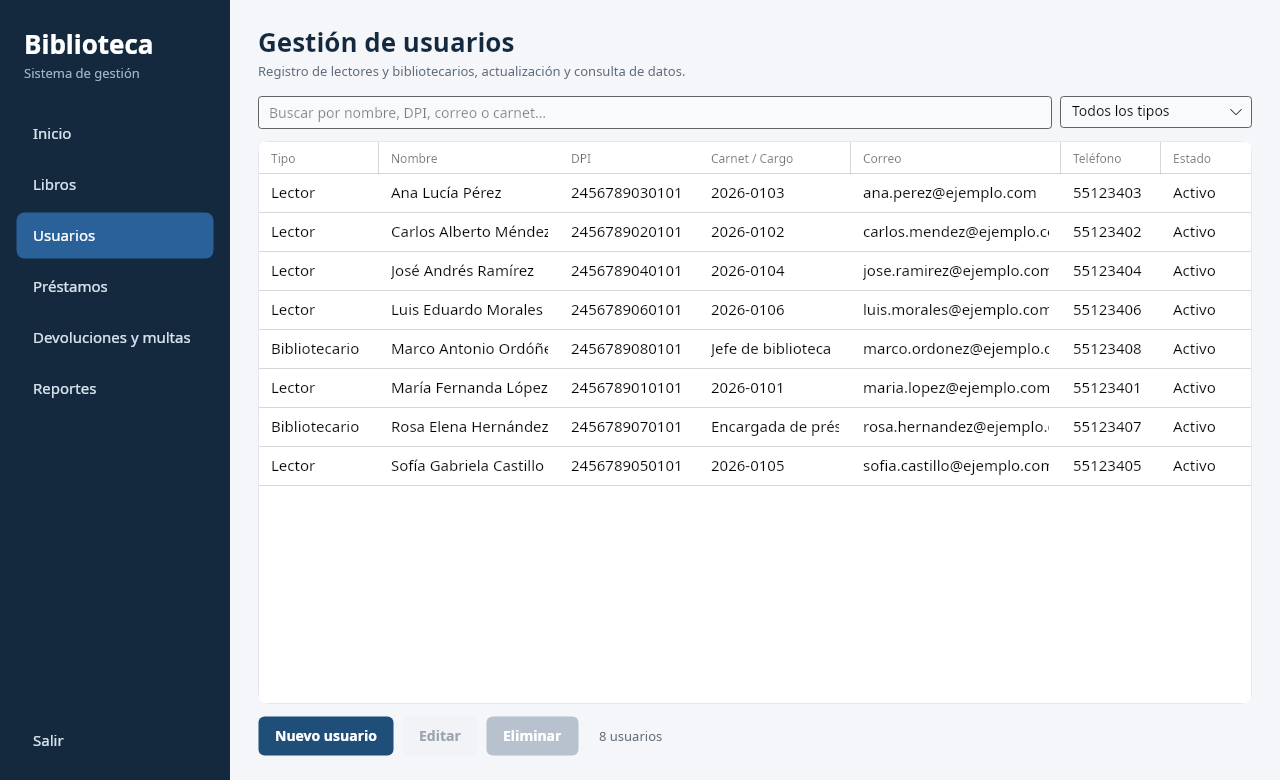
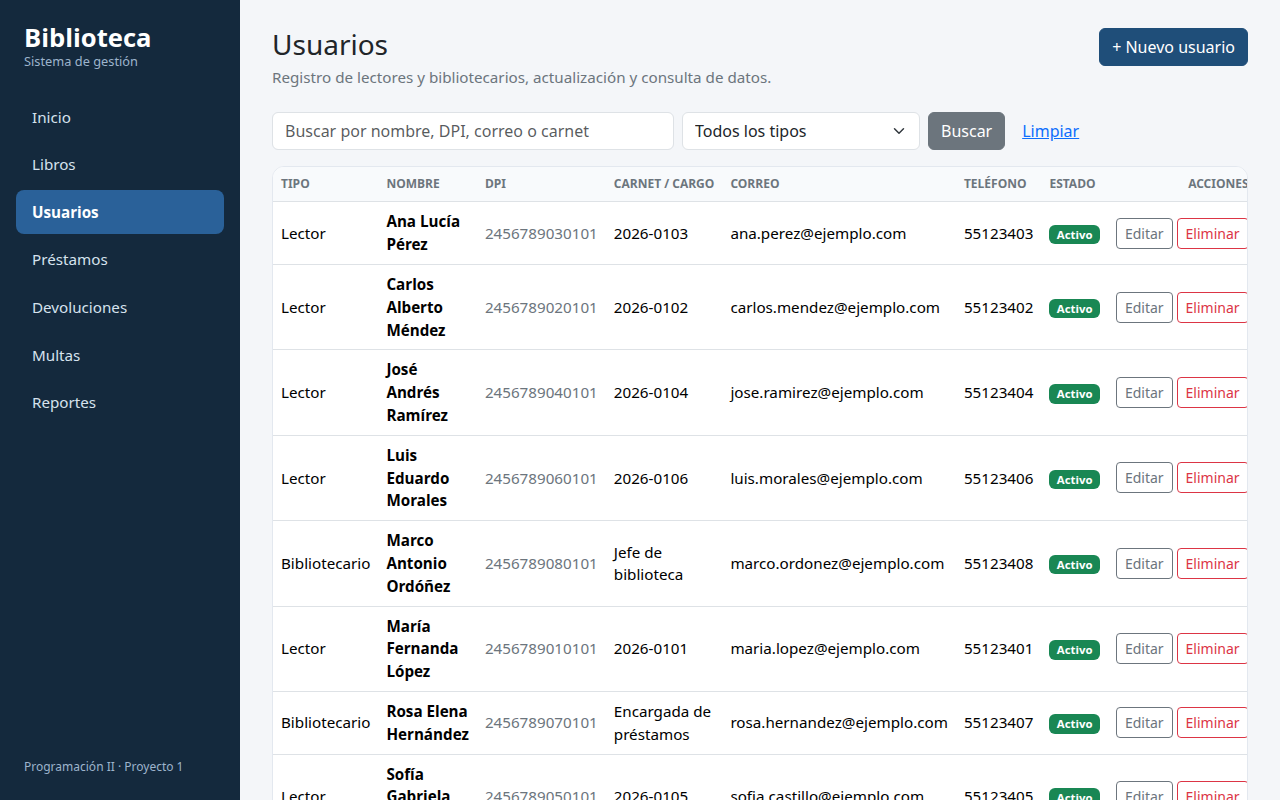
docs: actualiza la interfaz, la trazabilidad y las pruebas con las capturas de la aplicación web

diff --git a/docs/04-clases-diseno-y-trazabilidad.md b/docs/04-clases-diseno-y-trazabilidad.md
@@ -41,7 +41,24 @@ Las clases del código tienen correspondencia directa con el diagrama de clases 
 | `DevolucionService` | Registrar la devolución, liberar el ejemplar y disparar la generación de la multa. |
 | `MultaService` | Calcular y generar multas, registrar pagos, consultar multas y saldos pendientes. |
 | `ReporteService` | Construir los cinco reportes (`ReporteTabular`) y exportarlos a CSV. |
-| `SistemaBiblioteca` | Punto de entrada: crea los repositorios JSON y los servicios; es lo único que la interfaz necesita conocer. |
+| `SistemaBiblioteca` | Punto de entrada: crea los repositorios JSON y los servicios; es lo único que los controladores necesitan conocer. |
+
+## 6.4 Controladores, modelos de vista y vistas (`Biblioteca.Web`)
+
+| Controlador | Acciones | Vistas (`Views/`) | Servicio que usa |
+|---|---|---|---|
+| `HomeController` | `Index` (panel), `Error` | `Home/Index`, `Shared/Error` | Todos (solo lectura) |
+| `LibrosController` | `Index`, `Crear`, `Editar`, `Eliminar` | `Libros/Index`, `Crear`, `Editar`, `_Formulario` | `LibroService` |
+| `UsuariosController` | `Index`, `Crear`, `Editar`, `Eliminar` | `Usuarios/Index`, `Crear`, `Editar`, `_Formulario` | `UsuarioService` |
+| `PrestamosController` | `Index`, `Nuevo`, `Renovar` | `Prestamos/Index`, `Nuevo` | `PrestamoService` |
+| `DevolucionesController` | `Index`, `Registrar` | `Devoluciones/Index` | `DevolucionService`, `MultaService` |
+| `MultasController` | `Index`, `Pagar` | `Multas/Index` | `MultaService` |
+| `ReportesController` | `Index`, `Exportar` | `Reportes/Index` | `ReporteService` |
+
+- Todos heredan de `BaseController` (salvo `Home` y `Reportes`), que traduce `ValidacionException` y `AlmacenamientoException` en mensajes para el usuario.
+- Los **modelos de vista** (`Models/ViewModels`) transportan los datos de los formularios (con validaciones `DataAnnotations`) y de los listados; las entidades del dominio nunca se enlazan directamente a un formulario.
+- Las acciones que modifican datos son `POST` con `[ValidateAntiForgeryToken]`; después de guardar se redirige (patrón Post/Redirect/Get) y el mensaje se entrega con `TempData`.
+- `SistemaBiblioteca` se registra como *singleton* en `Program.cs` y se inyecta por constructor en cada controlador.
 
 ---
 
@@ -56,7 +73,7 @@ Las clases del código tienen correspondencia directa con el diagrama de clases 
 | `prestamos.json` | Historial completo de préstamos. | `Prestamo` |
 | `multas.json` | Multas generadas y su estado de pago. | `Multa` |
 
-Los archivos se guardan en la carpeta `datos/` junto al ejecutable (o en la ruta indicada por la variable de entorno `BIBLIOTECA_DATOS`). El repositorio incluye los **datos de prueba** en `datos/` y el proyecto los copia automáticamente a la carpeta de salida.
+Los archivos se guardan en la carpeta `Data/` de la aplicación web (o en la ruta indicada por la configuración `DataPath` o la variable de entorno `BIBLIOTECA_DATOS`). El repositorio incluye los **datos de prueba** en `Data/`.
 
 ## 7.2 Ejemplo de formato
 
@@ -81,39 +98,39 @@ Solo se guardan los datos primarios: las propiedades calculadas (`LimitePrestamo
 1. **Al iniciar**, `RepositorioJson<T>` lee el archivo completo y lo deserializa a una lista en memoria. Si no existe o está vacío, comienza con una colección vacía.
 2. **En cada cambio** (agregar, actualizar o eliminar) serializa la lista completa a `archivo.json.tmp` y luego reemplaza al archivo original. Así, un fallo a mitad de escritura no deja un archivo truncado.
 3. **Identificadores:** `Id = máximo actual + 1`. Los identificadores de registros eliminados no se reutilizan mientras exista un registro con un identificador mayor.
-4. **Errores:** un JSON dañado o un problema de disco se convierte en `AlmacenamientoException` con el nombre del archivo; al iniciar, la aplicación lo muestra y no abre con datos incompletos.
+4. **Errores:** un JSON dañado o un problema de disco se convierte en `AlmacenamientoException` con el nombre del archivo; al iniciar, la aplicación no arranca con datos incompletos y muestra el error; al guardar, el controlador muestra el mensaje al usuario.
 5. **Codificación:** UTF-8, con sangría, sin escapar tildes ni «ñ», para que el archivo sea legible.
 
 ---
 
-# 8. Interfaz gráfica
+# 8. Interfaz web
 
-La interfaz se construyó con Avalonia (XAML + C#), sin lógica de negocio: cada vista solo llama a los servicios y muestra el resultado. Cumple con lo mínimo solicitado:
+La interfaz es una aplicación **ASP.NET Core MVC**: páginas Razor (`.cshtml`) con Bootstrap, que se abren desde el navegador. Las vistas no contienen lógica de negocio: los controladores llaman a los servicios y las vistas muestran el resultado. Cumple con lo mínimo solicitado:
 
 | Requisito de interfaz | Cómo se cumple |
 |---|---|
-| Menú principal | Barra lateral con **Inicio, Libros, Usuarios, Préstamos, Devoluciones y multas, Reportes y Salir**. |
-| Botones de navegación | El menú lateral y los accesos rápidos de la pantalla de inicio. |
-| Formularios de registro | Formularios modales de libro, usuario y préstamo. |
-| Consulta de información | Tablas con búsqueda, filtros y ordenamiento por columna. |
-| Edición de información | Botón **Editar** o doble clic sobre una fila. |
+| Menú principal | Barra lateral con **Inicio, Libros, Usuarios, Préstamos, Devoluciones, Multas y Reportes**. |
+| Botones de navegación | El menú lateral, el botón **+ Nuevo** de cada módulo, los botones **Cancelar** y los accesos rápidos del inicio. |
+| Formularios de registro | Páginas de alta de libro, usuario y préstamo. |
+| Consulta de información | Tablas con búsqueda, filtros por categoría, tipo o estado, y resúmenes. |
+| Edición de información | Botón **Editar** en cada fila de libros y usuarios. |
 | Eliminación | Botón **Eliminar** en libros y usuarios, permitido solo sin historial. |
-| Mensajes de confirmación | Diálogo «¿Está seguro?» antes de eliminar, renovar, devolver o cobrar; mensaje de éxito después de cada operación. |
-| Mensajes de error | Errores de validación dentro del formulario (en rojo) y diálogo de error para operaciones rechazadas. |
-| Validación de datos | Campos obligatorios, formatos (ISBN, DPI, correo, teléfono), números, unicidad y reglas de negocio. |
+| Mensajes de confirmación | Cuadro de confirmación del navegador antes de eliminar, renovar, devolver o cobrar; alerta verde de éxito después de cada operación. |
+| Mensajes de error | Alerta roja dentro del formulario con el motivo (validación o regla de negocio) y alerta roja tras una operación rechazada. |
+| Validación de datos | Campos obligatorios, formatos (ISBN, DPI, correo, teléfono), números, unicidad y reglas de negocio, siempre validados en el servidor. |
 
-### Pantalla de inicio
-![Pantalla de inicio](img/pantalla-inicio.png)
+### Inicio
+![Panel de inicio](img/pantalla-inicio.png)
 
 ### Libros
-![Módulo de libros](img/pantalla-libros.png)
+![Listado de libros](img/pantalla-libros.png)
 
 | Formulario | Validación |
 |---|---|
 | ![Formulario de libro](img/form-libro.png) | ![Error de validación](img/form-libro-error.png) |
 
 ### Usuarios
-![Módulo de usuarios](img/pantalla-usuarios.png)
+![Listado de usuarios](img/pantalla-usuarios.png)
 
 | Formulario | Validación |
 |---|---|
@@ -122,7 +139,7 @@ La interfaz se construyó con Avalonia (XAML + C#), sin lógica de negocio: cada
 ### Préstamos
 Los préstamos atrasados se resaltan en rojo y los devueltos en gris.
 
-![Módulo de préstamos](img/pantalla-prestamos.png)
+![Listado de préstamos](img/pantalla-prestamos.png)
 
 | Nuevo préstamo | Préstamo rechazado por regla de negocio |
 |---|---|
@@ -138,11 +155,8 @@ Los préstamos atrasados se resaltan en rojo y los devueltos en gris.
 
 ![Reporte de libros atrasados](img/pantalla-reporte-atrasados.png)
 
-### Diálogos de mensajes
-
-| Confirmación | Error |
-|---|---|
-| ![Diálogo de confirmación](img/dialogo-confirmar.png) | ![Diálogo de error](img/dialogo-error.png) |
+### Mensaje de confirmación
+![Confirmación tras registrar un libro](img/libro-registrado.png)
 
 ---
 
@@ -160,19 +174,19 @@ El proyecto demuestra la cadena **Problema → Requisitos → UML → Clases →
 | Vencimientos y multas sin control | RF-18 a RF-22 | CU-12 a CU-16; secuencia y actividad de devolución | `DevolucionService`, `MultaService`, `Multa`, `ICalculadoraMulta`, `MultaPorDia` |
 | Reportes lentos y propensos a error | RF-23 a RF-28 | CU-17 | `ReporteService`, `ReporteTabular` |
 | Información que se pierde | RF-29 a RF-31 | Secuencia de persistencia | `IRepositorio<T>`, `RepositorioJson<T>`, `AlmacenamientoException` |
-| Uso poco claro del sistema | RF-32 a RF-34 | Especificación de casos de uso | `MainWindow`, `Dialogos`, formularios |
+| Uso poco claro del sistema | RF-32 a RF-34 | Especificación de casos de uso; arquitectura MVC | `BaseController`, controladores, vistas y modelos de vista |
 
 ## 9.2 De las clases a la interfaz, los archivos y las pruebas
 
-| Requisitos | Código C# | Interfaz | Archivo | Pruebas |
+| Requisitos | Código C# | Controlador y vistas | Archivo | Pruebas |
 |---|---|---|---|---|
-| RF-01 a RF-07 | `LibroService.Registrar/Editar/Eliminar/Buscar`, `Libro.PrestarCopia/DevolverCopia` | `LibrosView`, `LibroFormWindow` | `libros.json` | `LibroTests`, `LibroServiceTests` |
-| RF-08 a RF-11 | `Persona.Actualizar`, `LimitePrestamos`, `DiasPrestamo` | `UsuariosView`, `UsuarioFormWindow` | `usuarios.json` | `PersonaTests`, `UsuarioServiceTests` |
-| RF-12 a RF-17 | `PrestamoService.Prestar/Renovar`, `Prestamo.Renovar/ObtenerEstado` | `PrestamosView`, `PrestamoFormWindow` | `prestamos.json` | `PrestamoTests`, `PrestamoFlujoTests` |
-| RF-18 a RF-22 | `DevolucionService.Registrar`, `MultaService.GenerarPorDevolucion/Pagar` | `DevolucionesView` | `multas.json`, `prestamos.json` | `MultaTests`, `PrestamoFlujoTests` |
-| RF-23 a RF-28 | `ReporteService.*`, `ReporteTabular.ACsv` | `ReportesView` | (lee los cuatro archivos) | `ReporteServiceTests` |
-| RF-29 a RF-31 | `RepositorioJson.Cargar/Guardar` | Mensaje de error al iniciar | Los cuatro archivos JSON | `PersistenciaTests`, `DatosDePruebaTests` |
-| RF-32 a RF-34 | `MainWindow.Navegar`, `Dialogos.Confirmar/Error/Informacion` | Toda la aplicación | — | Verificación manual de la interfaz |
+| RF-01 a RF-07 | `LibroService.Registrar/Editar/Eliminar/Buscar`, `Libro.PrestarCopia/DevolverCopia` | `LibrosController`, `Views/Libros` | `libros.json` | `LibroTests`, `LibroServiceTests`, `WebTests` |
+| RF-08 a RF-11 | `Persona.Actualizar`, `LimitePrestamos`, `DiasPrestamo` | `UsuariosController`, `Views/Usuarios` | `usuarios.json` | `PersonaTests`, `UsuarioServiceTests`, `WebTests` |
+| RF-12 a RF-17 | `PrestamoService.Prestar/Renovar`, `Prestamo.Renovar/ObtenerEstado` | `PrestamosController`, `Views/Prestamos` | `prestamos.json` | `PrestamoTests`, `PrestamoFlujoTests`, `WebTests` |
+| RF-18 a RF-22 | `DevolucionService.Registrar`, `MultaService.GenerarPorDevolucion/Pagar` | `DevolucionesController`, `MultasController`, `Views/Devoluciones`, `Views/Multas` | `multas.json`, `prestamos.json` | `MultaTests`, `PrestamoFlujoTests`, `WebTests` |
+| RF-23 a RF-28 | `ReporteService.*`, `ReporteTabular.ACsv` | `ReportesController`, `Views/Reportes` | (lee los cuatro archivos) | `ReporteServiceTests`, `WebTests` |
+| RF-29 a RF-31 | `RepositorioJson.Cargar/Guardar` | `BaseController` (mensajes de error) | Los cuatro archivos JSON | `PersistenciaTests`, `DatosDePruebaTests` |
+| RF-32 a RF-34 | `BaseController`, `Program.cs` | `Views/Shared/_Layout`, formularios y alertas | — | `WebTests` |
 
 ---
 
@@ -180,7 +194,7 @@ El proyecto demuestra la cadena **Problema → Requisitos → UML → Clases →
 
 ## 10.1 Pruebas automatizadas
 
-El proyecto `tests/Biblioteca.Tests` contiene **70 casos de prueba** (xUnit) que se ejecutan con `dotnet test` sin necesidad de abrir la interfaz:
+El proyecto `tests/Biblioteca.Tests` contiene **94 casos de prueba** (xUnit) que se ejecutan con `dotnet test`: 70 del dominio, los servicios y la persistencia, y 24 de integración que arrancan la aplicación web completa en memoria:
 
 | Grupo | Qué verifica |
 |---|---|
@@ -193,10 +207,11 @@ El proyecto `tests/Biblioteca.Tests` contiene **70 casos de prueba** (xUnit) que
 | `ReporteServiceTests` | Contenido de los reportes y escape de comas y comillas en el CSV. |
 | `PersistenciaTests` | Los datos sobreviven al cerrar y reabrir; se conserva el polimorfismo; los identificadores continúan; no quedan temporales; archivo dañado o vacío. |
 | `DatosDePruebaTests` | Los datos de prueba cargan, son consistentes (ejemplares vs. préstamos) y cubren todos los estados. |
+| `WebTests` | Las 12 páginas cargan con los datos de prueba; alta de libro y usuario con validaciones; eliminación con y sin historial; préstamo rechazado por atraso; préstamo, renovación y devolución; multa generada y pagada; exportación a CSV; rechazo de envíos sin token antiforgery. |
 
 ## 10.2 Datos de prueba
 
-La carpeta `datos/` incluye 16 libros, 8 usuarios (6 lectores y 2 bibliotecarios), 12 préstamos y 2 multas. Se generaron con la propia lógica del sistema para que sean consistentes y cubren:
+La carpeta `Data/` incluye 16 libros, 8 usuarios (6 lectores y 2 bibliotecarios), 12 préstamos y 2 multas. Se generaron con la propia lógica del sistema para que sean consistentes y cubren:
 
 - Préstamos **activos**, **atrasados** y **devueltos** (a tiempo y con atraso).
 - Un préstamo **renovado**.
@@ -205,13 +220,15 @@ La carpeta `datos/` incluye 16 libros, 8 usuarios (6 lectores y 2 bibliotecarios
 - Un usuario con préstamos **atrasados** (`Luis Eduardo Morales`).
 - Libros que se pueden **eliminar** (sin historial) y otros que no.
 
-## 10.3 Pruebas manuales de interfaz recomendadas
+## 10.3 Pruebas manuales en el navegador
+
+También se recorrieron 24 comprobaciones de extremo a extremo con un navegador Chrome automatizado (formularios, mensajes, confirmaciones, filtros y flujo completo de préstamo, devolución con multa y pago). Para repetirlas a mano:
 
 1. Registrar un libro con un ISBN repetido y comprobar el mensaje de error.
 2. Registrar un préstamo a un usuario con multa pendiente y comprobar el rechazo.
 3. Devolver un préstamo atrasado y comprobar que se genera la multa correcta.
 4. Pagar la multa y volver a prestar al mismo usuario.
-5. Cerrar la aplicación, abrirla de nuevo y comprobar que los datos siguen ahí.
+5. Detener la aplicación, volver a ejecutarla y comprobar que los datos siguen ahí.
 6. Exportar un reporte a CSV y abrirlo en una hoja de cálculo.
 
 ---
@@ -225,19 +242,24 @@ Repositorio: <https://github.com/USPG-Angels-Workspace/sistema-biblioteca>
 ```
 sistema-biblioteca/
 ├── Biblioteca.sln
-├── datos/                 archivos JSON con los datos de prueba
-├── docs/                  documento de análisis, diagramas, imágenes y presentación
+├── Biblioteca.Web.csproj      aplicación web ASP.NET Core MVC
+├── Program.cs                 configuración de la aplicación
+├── Controllers/               controladores MVC
+├── Models/                    modelos de vista (ViewModels)
+├── Views/                     vistas Razor (.cshtml)
+├── wwwroot/                   estilos y Bootstrap
+├── Data/                      archivos JSON con los datos de prueba
+├── docs/                      documento de análisis, diagramas, imágenes y presentación
 ├── src/
-│   ├── Biblioteca.Core/   dominio, servicios y persistencia
-│   └── Biblioteca.App/    interfaz gráfica (Avalonia)
+│   └── Biblioteca.Core/       dominio, servicios y persistencia (el "Modelo")
 └── tests/
-    └── Biblioteca.Tests/  pruebas unitarias (xUnit)
+    └── Biblioteca.Tests/      pruebas unitarias y de integración (xUnit)
 ```
 
 ## 11.2 Flujo de trabajo
 
 - Los commits siguen **Conventional Commits** con la descripción en español (`feat`, `fix`, `docs`, `chore`, `test`…).
-- Cada commit contiene un solo cambio lógico y el historial se construyó por capas: estructura base → dominio → persistencia → servicios → pruebas → interfaz → documentación.
+- Cada commit contiene un solo cambio lógico y el historial se construyó por capas: estructura base → dominio → persistencia → servicios → pruebas → interfaz → documentación. Cuando el proyecto pasó a ser una aplicación web MVC, el cambio se hizo también por capas (plantilla → modelos de vista → controladores → vistas → pruebas de integración).
 
 ## 11.3 Cómo ejecutar
 
@@ -246,5 +268,7 @@ Requisitos: .NET SDK 8 o superior.
 ```bash
 dotnet build Biblioteca.sln
 dotnet test tests/Biblioteca.Tests
-dotnet run --project src/Biblioteca.App
+dotnet run
 ```
+
+`dotnet run` inicia el servidor y muestra la dirección (por defecto `http://localhost:5110`); se abre en el navegador. Los cambios se guardan en `Data/`; para volver a los datos de prueba originales basta con `git checkout Data`.
